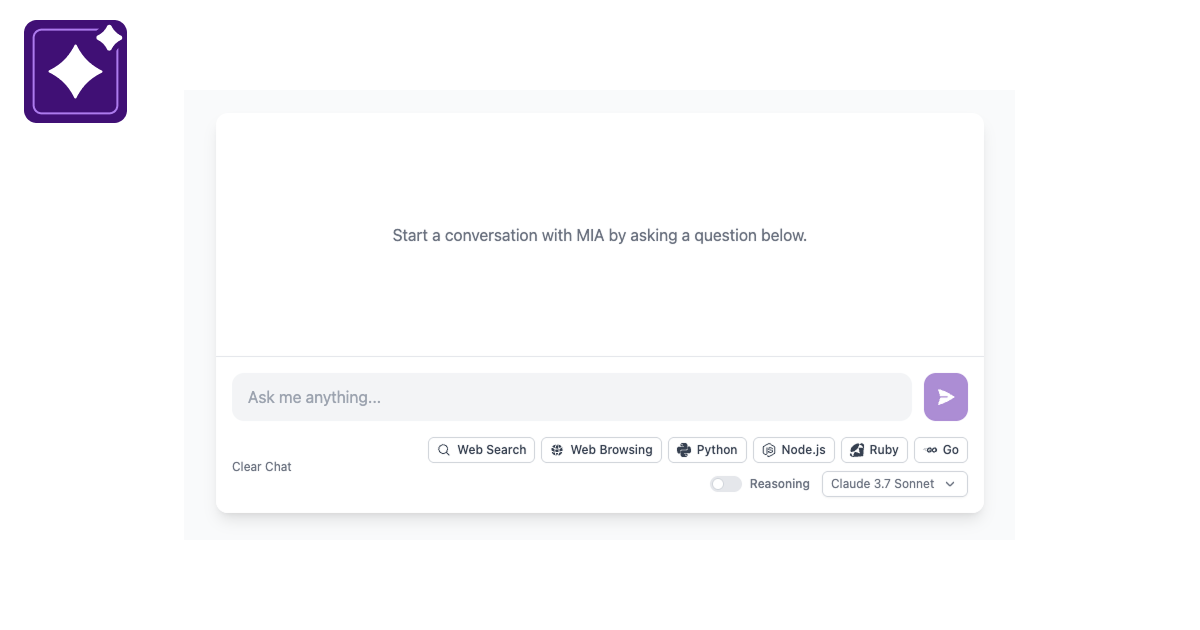
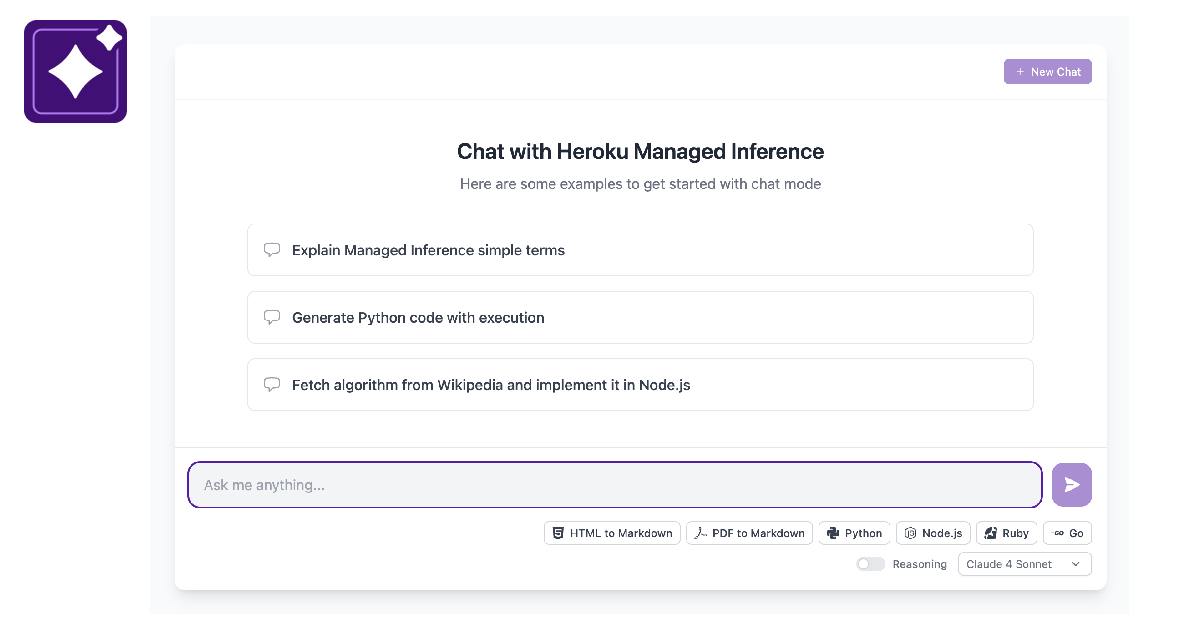
update defaults

diff --git a/client/src/pages/Chat.tsx b/client/src/pages/Chat.tsx
@@ -115,6 +115,13 @@ const Chat: React.FC = () => {
 
   const handleClear = () => {
     setMessages([]);
+    setInput('');
+    setSelectedModel('claude-4-sonnet');
+    setUseReasoning(false);
+    setSelectedAgents([]);
+    setSeed(0);
+    setAspectRatio('1:1');
+    setNegativePrompt('');
   };
 
   const handleRetry = () => {
